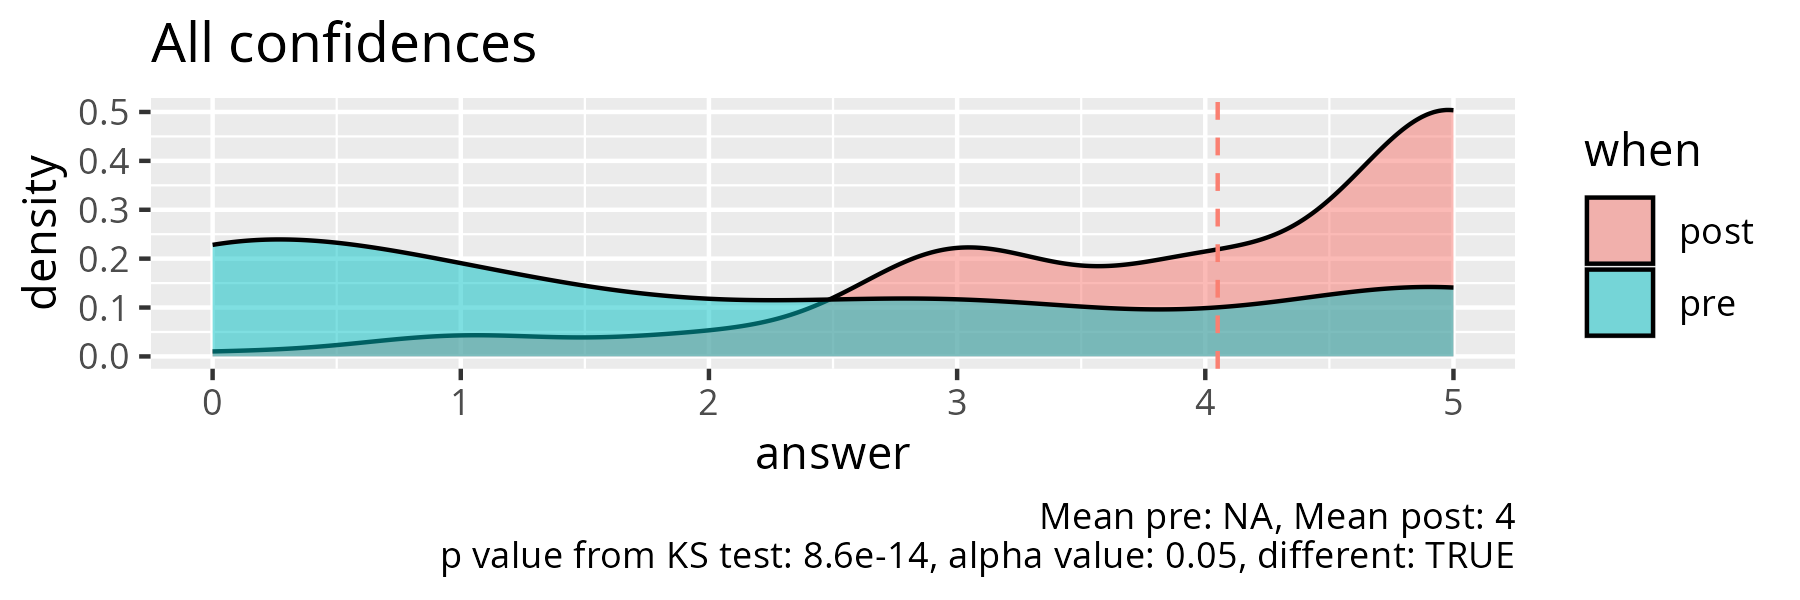
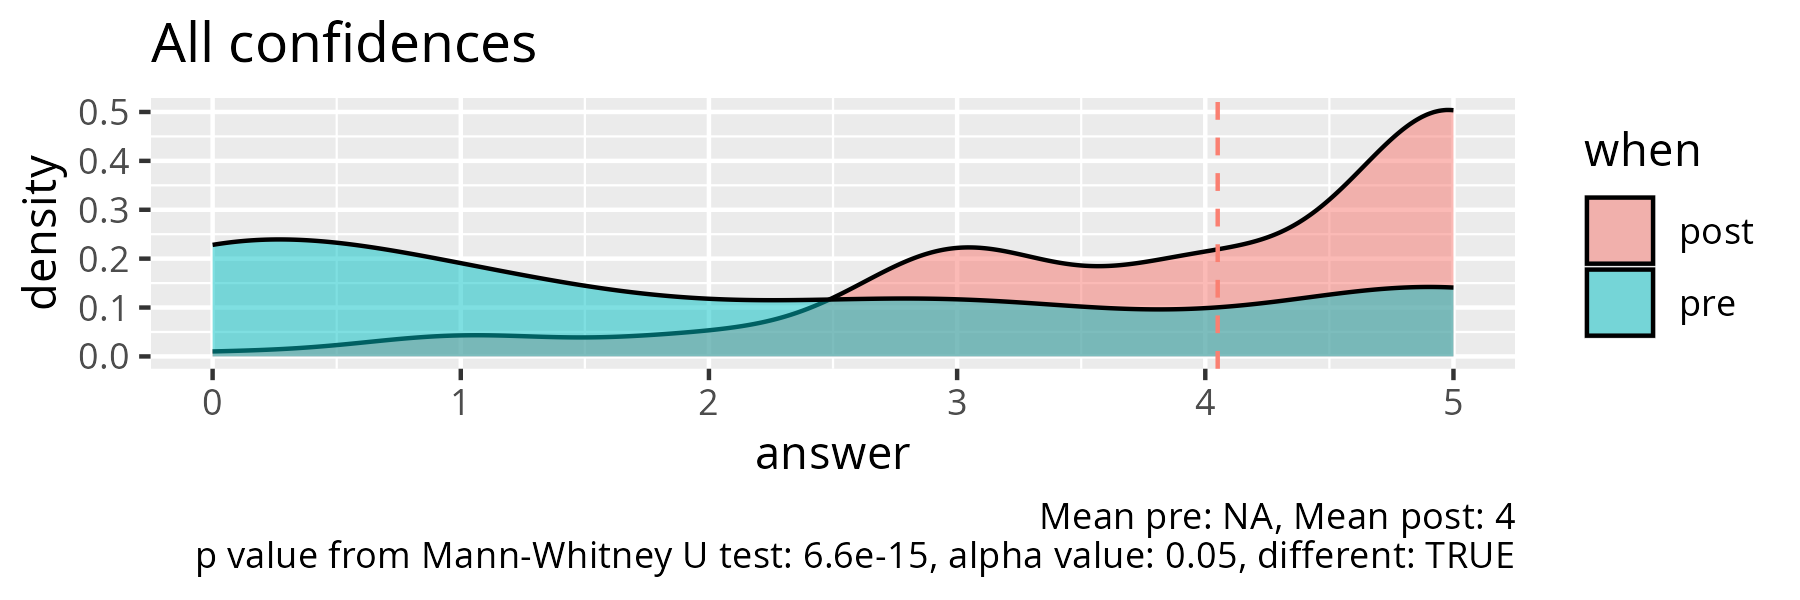
Use Mann-Whitney U test, instead of Kolmogorov Smirnoff test

Changed region(s): [[0.0933, 0.9, 0.4044, 0.96], [0.4978, 0.9, 0.5289, 0.96], [0.4356, 0.9, 0.4667, 0.93]]

diff --git a/docs/evaluations/20250404/stats.md b/docs/evaluations/20250404/stats.md
@@ -1,12 +1,12 @@
 |question                                              |  mean_pre| mean_post|   p_value|different |
 |:-----------------------------------------------------|---------:|---------:|---------:|:---------|
-|I feel comfortable with the book 'R for Data Science' |        NA|  4.083333| 0.0050115|TRUE      |
-|I feel comfortable with using the `swirl` package     | 0.6923077|  4.250000| 0.0000392|TRUE      |
-|I can use `ggplot2` for simple plots                  | 2.8461538|  4.083333| 0.0990481|FALSE     |
-|I can create simple ggplots from tidy data            | 2.4615385|  3.750000| 0.0507767|FALSE     |
-|I can use some ggplot aesthetics                      | 2.3076923|  3.916667| 0.1090524|FALSE     |
-|I can use some ggplot geometrical objects             | 1.9230769|  3.916667| 0.0085664|TRUE      |
-|I can assign a value to a variable                    | 3.0769231|  4.416667| 0.1028093|FALSE     |
-|I can tell what snake case is                         | 0.4615385|  3.916667| 0.0000731|TRUE      |
-|I can write a comment                                 | 2.9230769|  4.500000| 0.0429452|TRUE      |
-|I can correct typos in simple code                    | 2.5384615|  3.666667| 0.0679284|FALSE     |
+|I feel comfortable with the book 'R for Data Science' |        NA|  4.083333| 0.0010517|TRUE      |
+|I feel comfortable with using the `swirl` package     | 0.6923077|  4.250000| 0.0001342|TRUE      |
+|I can use `ggplot2` for simple plots                  | 2.8461538|  4.083333| 0.1513686|FALSE     |
+|I can create simple ggplots from tidy data            | 2.4615385|  3.750000| 0.1135403|FALSE     |
+|I can use some ggplot aesthetics                      | 2.3076923|  3.916667| 0.0250049|TRUE      |
+|I can use some ggplot geometrical objects             | 1.9230769|  3.916667| 0.0052019|TRUE      |
+|I can assign a value to a variable                    | 3.0769231|  4.416667| 0.0907262|FALSE     |
+|I can tell what snake case is                         | 0.4615385|  3.916667| 0.0002411|TRUE      |
+|I can write a comment                                 | 2.9230769|  4.500000| 0.0265003|TRUE      |
+|I can correct typos in simple code                    | 2.5384615|  3.666667| 0.1300707|FALSE     |
